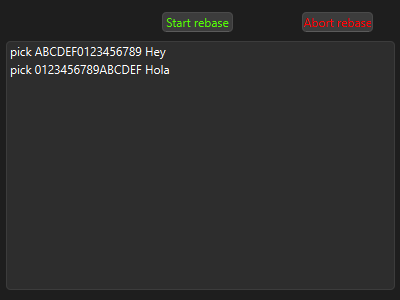
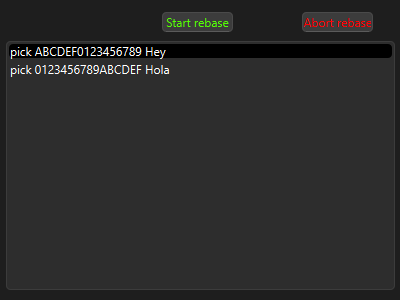
Highlight selected item

Changed region(s): [[0.0, 0.12, 0.99, 0.21]]

diff --git a/panel.cpp b/panel.cpp
@@ -25,15 +25,22 @@ void PanelWidget::update() {
         QString((item.kind + " " + item.sha1 + " " + item.message).c_str()),
         ui.todoList);
   }
+  if (m_todoList.size() > 0) {
+    const auto selectedBackGround =
+        ui.todoList->item(m_selected)->background().color();
+    ui.todoList->item(m_selected)->setBackground(selectedBackGround.lighter());
+  }
 }
 
 void PanelWidget::up() {
   if (m_selected != 0)
     m_selected--;
+  update();
 }
 
 void PanelWidget::down() {
   m_selected = std::min(m_selected + 1, m_todoList.size() - 1);
+  update();
 }
 
 void PanelWidget::moveUp() {
